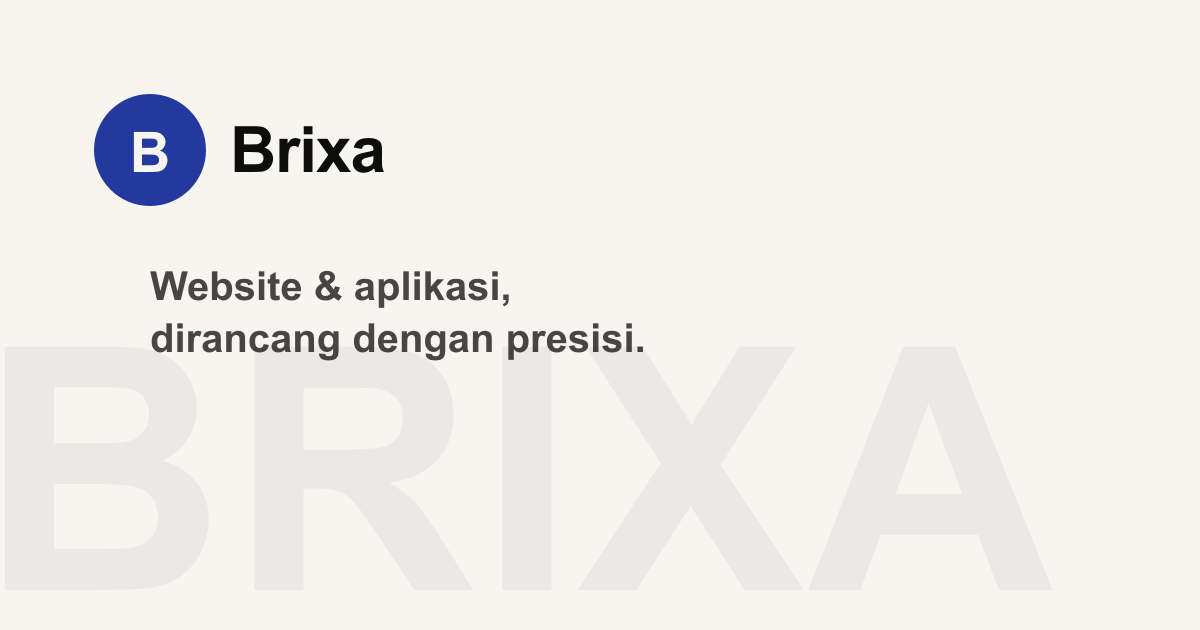
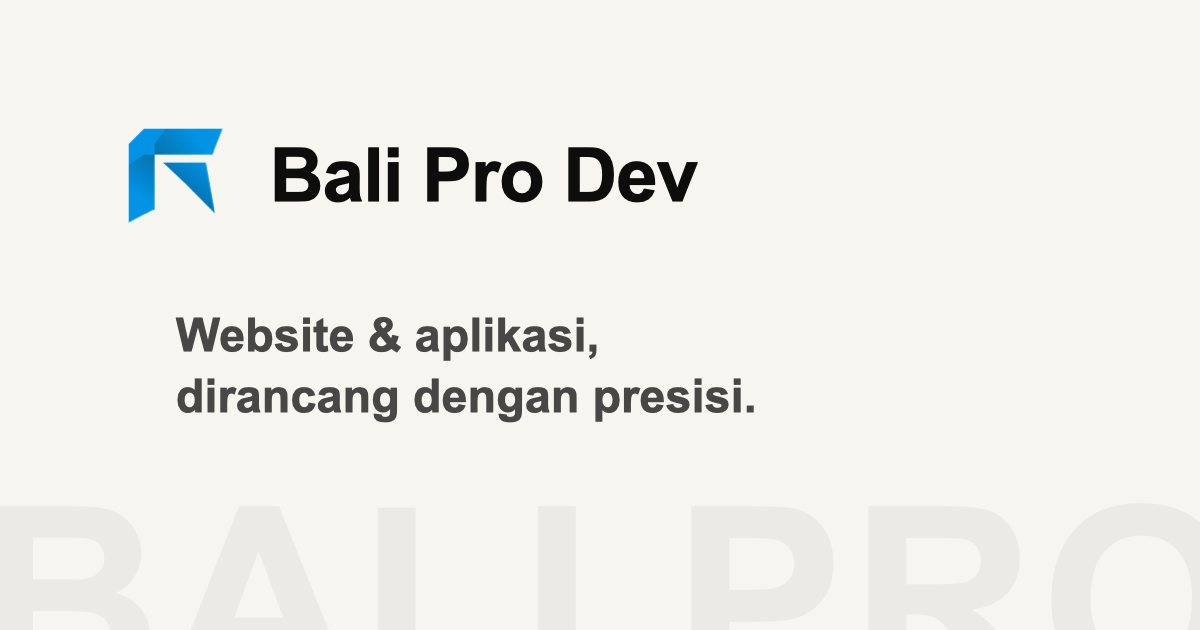
Rebrand from Brixa to Bali Pro Dev
Update all brand references (meta tags, structured data, footer/navbar
copy) to Bali Pro Dev, point canonical/sitemap/robots URLs at
baliprodev.com, add SPA rewrite config for Vercel/Netlify, and swap in
the new logo (transparent PNG) across favicon, navbar, footer, and the
generated og:image.

Changed region(s): [[0.0617, 0.1508, 0.5858, 0.3619], [0.1233, 0.4222, 0.5242, 0.573], [0.1233, 0.6032, 0.6475, 0.6937]]

diff --git a/index.html b/index.html
@@ -2,7 +2,10 @@
 <html lang="id">
   <head>
     <meta charset="UTF-8" />
-    <link rel="icon" type="image/svg+xml" href="/favicon.svg" />
+    <link rel="icon" type="image/png" sizes="48x48" href="/favicon-48.png" />
+    <link rel="icon" type="image/png" sizes="32x32" href="/favicon-32.png" />
+    <link rel="icon" type="image/png" sizes="16x16" href="/favicon-16.png" />
+    <link rel="apple-touch-icon" sizes="180x180" href="/apple-touch-icon.png" />
     <meta name="viewport" content="width=device-width, initial-scale=1.0" />
     <link rel="preconnect" href="https://fonts.googleapis.com" />
     <link rel="preconnect" href="https://fonts.gstatic.com" crossorigin />
@@ -12,47 +15,47 @@
     />
     <meta
       name="description"
-      content="Brixa adalah studio pengembangan website & aplikasi: company profile, toko online, sistem web, hingga aplikasi mobile. Custom, cepat, sesuai kebutuhan bisnis Anda."
+      content="Bali Pro Dev adalah studio pengembangan website & aplikasi: company profile, toko online, sistem web, hingga aplikasi mobile. Custom, cepat, sesuai kebutuhan bisnis Anda."
     />
-    <title>Brixa | Jasa Pembuatan Website & Aplikasi</title>
+    <title>Bali Pro Dev | Jasa Pembuatan Website & Aplikasi</title>
 
-    <!-- Canonical URL — TODO: ganti dengan domain asli setelah deploy -->
-    <link rel="canonical" href="https://brixa.id/" />
+    <!-- Canonical URL -->
+    <link rel="canonical" href="https://baliprodev.com/" />
 
     <!-- Open Graph (Facebook, WhatsApp, LinkedIn, dll) -->
     <meta property="og:type" content="website" />
-    <meta property="og:site_name" content="Brixa" />
+    <meta property="og:site_name" content="Bali Pro Dev" />
     <meta property="og:locale" content="id_ID" />
-    <meta property="og:title" content="Brixa | Jasa Pembuatan Website & Aplikasi" />
+    <meta property="og:title" content="Bali Pro Dev | Jasa Pembuatan Website & Aplikasi" />
     <meta
       property="og:description"
       content="Studio pengembangan website & aplikasi: company profile, toko online, sistem web, hingga aplikasi mobile. Custom, cepat, sesuai kebutuhan bisnis Anda."
     />
-    <meta property="og:image" content="https://brixa.id/og-image.png" />
+    <meta property="og:image" content="https://baliprodev.com/og-image.png" />
     <meta property="og:image:width" content="1200" />
     <meta property="og:image:height" content="630" />
-    <meta property="og:url" content="https://brixa.id/" />
+    <meta property="og:url" content="https://baliprodev.com/" />
 
     <!-- Twitter Card -->
     <meta name="twitter:card" content="summary_large_image" />
-    <meta name="twitter:title" content="Brixa | Jasa Pembuatan Website & Aplikasi" />
+    <meta name="twitter:title" content="Bali Pro Dev | Jasa Pembuatan Website & Aplikasi" />
     <meta
       name="twitter:description"
       content="Studio pengembangan website & aplikasi: company profile, toko online, sistem web, hingga aplikasi mobile."
     />
-    <meta name="twitter:image" content="https://brixa.id/og-image.png" />
+    <meta name="twitter:image" content="https://baliprodev.com/og-image.png" />
 
     <!-- Structured data — membantu Google memahami jenis bisnis ini -->
     <script type="application/ld+json">
       {
         "@context": "https://schema.org",
         "@type": "ProfessionalService",
-        "name": "Brixa",
+        "name": "Bali Pro Dev",
         "description": "Studio pengembangan website & aplikasi: company profile, toko online, sistem web, hingga aplikasi mobile.",
         "email": "krisnandaputra.id@gmail.com",
         "telephone": "+6287866986196",
         "areaServed": "ID",
-        "url": "https://brixa.id/"
+        "url": "https://baliprodev.com/"
       }
     </script>
   </head>

diff --git a/src/i18n/locales/id.js b/src/i18n/locales/id.js
@@ -1,8 +1,8 @@
 export default {
   meta: {
-    title: 'Brixa | Jasa Pembuatan Website & Aplikasi',
+    title: 'Bali Pro Dev | Jasa Pembuatan Website & Aplikasi',
     description:
-      'Brixa adalah studio pengembangan website & aplikasi: company profile, toko online, sistem web, hingga aplikasi mobile. Custom, cepat, sesuai kebutuhan bisnis Anda.',
+      'Bali Pro Dev adalah studio pengembangan website & aplikasi: company profile, toko online, sistem web, hingga aplikasi mobile. Custom, cepat, sesuai kebutuhan bisnis Anda.',
   },
 
   nav: {
@@ -21,7 +21,7 @@ export default {
     headlinePrefix: 'Website & aplikasi, dirancang dengan ',
     headlineHighlight: 'presisi.',
     paragraph:
-      'Brixa merancang dan membangun produk digital dengan pendekatan yang cermat. Setiap detail dipertimbangkan, setiap baris kode punya tujuan. Tanpa template, tanpa jalan pintas.',
+      'Bali Pro Dev merancang dan membangun produk digital dengan pendekatan yang cermat. Setiap detail dipertimbangkan, setiap baris kode punya tujuan. Tanpa template, tanpa jalan pintas.',
     ctaPrimary: 'Mulai Proyek',
     ctaSecondary: 'Lihat Portofolio',
     marquee: [
@@ -41,7 +41,7 @@ export default {
     headingPrefix: 'Layanan yang ',
     headingHighlight: 'kami kerjakan.',
     description:
-      'Empat area utama tempat Brixa paling sering membantu klien, dari halaman company profile sederhana sampai sistem custom yang kompleks.',
+      'Empat area utama tempat Bali Pro Dev paling sering membantu klien, dari halaman company profile sederhana sampai sistem custom yang kompleks.',
     items: [
       {
         slug: 'company-profile',
@@ -221,7 +221,7 @@ export default {
     headingPrefix: 'Kami percaya detail kecil ',
     headingHighlight: 'membuat perbedaan besar.',
     paragraph:
-      'Brixa adalah studio pengembangan digital yang fokus pada kualitas, bukan kuantitas. Setiap proyek yang masuk kami kerjakan dengan pendekatan yang sama: dengarkan kebutuhan Anda, rancang solusi yang tepat, lalu bangun dengan kode yang bersih dan siap dikembangkan lebih jauh.',
+      'Bali Pro Dev adalah studio pengembangan digital yang fokus pada kualitas, bukan kuantitas. Setiap proyek yang masuk kami kerjakan dengan pendekatan yang sama: dengarkan kebutuhan Anda, rancang solusi yang tepat, lalu bangun dengan kode yang bersih dan siap dikembangkan lebih jauh.',
     principles: [
       {
         title: 'Custom, bukan template',
@@ -258,7 +258,7 @@ export default {
       submit: 'Kirim Pesan',
     },
     mailSubjectPrefix: 'Proyek baru dari',
-    mailFallbackName: 'website Brixa',
+    mailFallbackName: 'website Bali Pro Dev',
     mailBodyName: 'Nama',
     mailBodyEmail: 'Email',
     mailBodyMessage: 'Pesan',

diff --git a/src/i18n/locales/en.js b/src/i18n/locales/en.js
@@ -1,8 +1,8 @@
 export default {
   meta: {
-    title: 'Brixa | Website & App Development Studio',
+    title: 'Bali Pro Dev | Website & App Development Studio',
     description:
-      'Brixa is a website & app development studio: company profile sites, online stores, web systems, and mobile apps. Custom-built, fast, and tailored to your business.',
+      'Bali Pro Dev is a website & app development studio: company profile sites, online stores, web systems, and mobile apps. Custom-built, fast, and tailored to your business.',
   },
 
   nav: {
@@ -21,7 +21,7 @@ export default {
     headlinePrefix: 'Websites & apps, built with ',
     headlineHighlight: 'precision.',
     paragraph:
-      'Brixa designs and builds digital products with a careful approach. Every detail considered, every line of code with a purpose. No templates, no shortcuts.',
+      'Bali Pro Dev designs and builds digital products with a careful approach. Every detail considered, every line of code with a purpose. No templates, no shortcuts.',
     ctaPrimary: 'Start a Project',
     ctaSecondary: 'View Portfolio',
     marquee: [
@@ -41,7 +41,7 @@ export default {
     headingPrefix: 'Services we ',
     headingHighlight: 'take care of.',
     description:
-      'Four areas where Brixa most often helps clients, from simple company profile pages to complex custom systems.',
+      'Four areas where Bali Pro Dev most often helps clients, from simple company profile pages to complex custom systems.',
     items: [
       {
         slug: 'company-profile',
@@ -221,7 +221,7 @@ export default {
     headingPrefix: 'We believe small details ',
     headingHighlight: 'make a big difference.',
     paragraph:
-      'Brixa is a digital development studio focused on quality, not quantity. Every project we take on gets the same approach: listen to your needs, design the right solution, then build it with clean code that’s ready to grow further.',
+      'Bali Pro Dev is a digital development studio focused on quality, not quantity. Every project we take on gets the same approach: listen to your needs, design the right solution, then build it with clean code that’s ready to grow further.',
     principles: [
       {
         title: 'Custom, not templated',
@@ -258,7 +258,7 @@ export default {
       submit: 'Send Message',
     },
     mailSubjectPrefix: 'New project from',
-    mailFallbackName: 'Brixa website',
+    mailFallbackName: 'Bali Pro Dev website',
     mailBodyName: 'Name',
     mailBodyEmail: 'Email',
     mailBodyMessage: 'Message',

diff --git a/src/components/layout/Footer.jsx b/src/components/layout/Footer.jsx
@@ -23,10 +23,8 @@ function Footer() {
           {/* Brand */}
           <div>
             <a href={`${homePath}#home`} className="flex items-center gap-3 font-display text-2xl font-bold tracking-tight text-paper">
-              <span className="flex h-9 w-9 items-center justify-center rounded-full bg-primary-500 text-sm font-bold text-paper">
-                B
-              </span>
-              Brixa
+              <img src="/logo.png" alt="" className="h-9 w-9" width="36" height="36" />
+              Bali Pro Dev
             </a>
             <p className="mt-5 max-w-xs text-sm leading-relaxed text-paper/50">{t.footer.tagline}</p>
           </div>
@@ -77,7 +75,7 @@ function Footer() {
         {/* Bottom bar */}
         <div className="mt-16 flex flex-col-reverse items-center justify-between gap-6 border-t border-paper/10 pt-8 md:flex-row">
           <span className="font-label text-xs uppercase tracking-[0.15em] text-paper/40">
-            © {new Date().getFullYear()} Brixa. {t.footer.copyright}
+            © {new Date().getFullYear()} Bali Pro Dev. {t.footer.copyright}
           </span>
 
           <a
@@ -97,7 +95,7 @@ function Footer() {
         aria-hidden="true"
         className="pointer-events-none mt-16 block select-none text-center font-display text-[16vw] font-bold leading-none text-paper/[0.04]"
       >
-        BRIXA
+        BALI PRO DEV
       </span>
     </footer>
   )

diff --git a/src/i18n/SiteHead.jsx b/src/i18n/SiteHead.jsx
@@ -1,8 +1,7 @@
 import { Helmet } from 'react-helmet-async'
 import { LOCALES, useLocale } from './LocaleContext'
 
-// TODO: ganti dengan domain asli setelah deploy.
-const SITE_URL = 'https://brixa.id'
+const SITE_URL = 'https://baliprodev.com'
 
 // For a sub-page (not the homepage), pass `path` (this locale's URL) and
 // `alternatePaths` ({ id, en }, the equivalent URL in each locale) so
@@ -29,7 +28,7 @@ function SiteHead({ title, description, path, alternatePaths } = {}) {
       <link rel="alternate" hrefLang="x-default" href={`${SITE_URL}${idPath}`} />
 
       <meta property="og:type" content="website" />
-      <meta property="og:site_name" content="Brixa" />
+      <meta property="og:site_name" content="Bali Pro Dev" />
       <meta property="og:locale" content={locale === 'id' ? 'id_ID' : 'en_US'} />
       <meta property="og:title" content={pageTitle} />
       <meta property="og:description" content={pageDescription} />

diff --git a/src/components/layout/Navbar.jsx b/src/components/layout/Navbar.jsx
@@ -106,14 +106,16 @@ function Navbar() {
       >
         {/* Logo */}
         <a href={`${homePath}#home`} className="flex items-center gap-3 font-display text-2xl font-bold tracking-tight text-ink-900">
-          <motion.span
+          <motion.img
+            src="/logo.png"
+            alt=""
+            width="36"
+            height="36"
             whileHover={{ rotate: 135 }}
             transition={{ type: 'spring', stiffness: 260, damping: 16 }}
-            className="flex h-9 w-9 items-center justify-center rounded-full bg-primary-600 text-sm font-bold text-paper"
-          >
-            B
-          </motion.span>
-          Brixa
+            className="h-9 w-9"
+          />
+          Bali Pro Dev
         </a>
 
         {/* Desktop nav — sliding hover indicator + a persistent underline

diff --git a/src/components/pages/PortfolioDetail.jsx b/src/components/pages/PortfolioDetail.jsx
@@ -36,7 +36,7 @@ function PortfolioDetail() {
   return (
     <>
       <SiteHead
-        title={`${project.title} | Brixa`}
+        title={`${project.title} | Bali Pro Dev`}
         description={project.detail.intro}
         path={`${portfolioPath}/${slug}`}
         alternatePaths={{ id: `${LOCALES.id.portfolioPath}/${slug}`, en: `${LOCALES.en.portfolioPath}/${slug}` }}

diff --git a/src/components/pages/ServiceDetail.jsx b/src/components/pages/ServiceDetail.jsx
@@ -34,7 +34,7 @@ function ServiceDetail() {
   return (
     <>
       <SiteHead
-        title={`${service.title} | Brixa`}
+        title={`${service.title} | Bali Pro Dev`}
         description={service.detail.intro}
         path={`${servicesPath}/${slug}`}
         alternatePaths={{ id: `${LOCALES.id.servicesPath}/${slug}`, en: `${LOCALES.en.servicesPath}/${slug}` }}

diff --git a/README.md b/README.md
@@ -1,6 +1,6 @@
-# Brixa — Company Profile Website
+# Bali Pro Dev — Company Profile Website
 
-Website company profile untuk **Brixa**, jasa pengembangan website & aplikasi. Dibangun dengan React + Vite, bergaya *elegant brutalism* (tipografi tegas, border tipis, animasi scroll berbasis fokus/blur), dan sudah mendukung multi-bahasa (Indonesia & Inggris).
+Website company profile untuk **Bali Pro Dev**, jasa pengembangan website & aplikasi. Dibangun dengan React + Vite, bergaya *elegant brutalism* (tipografi tegas, border tipis, animasi scroll berbasis fokus/blur), dan sudah mendukung multi-bahasa (Indonesia & Inggris).
 
 ## Tech Stack
 
